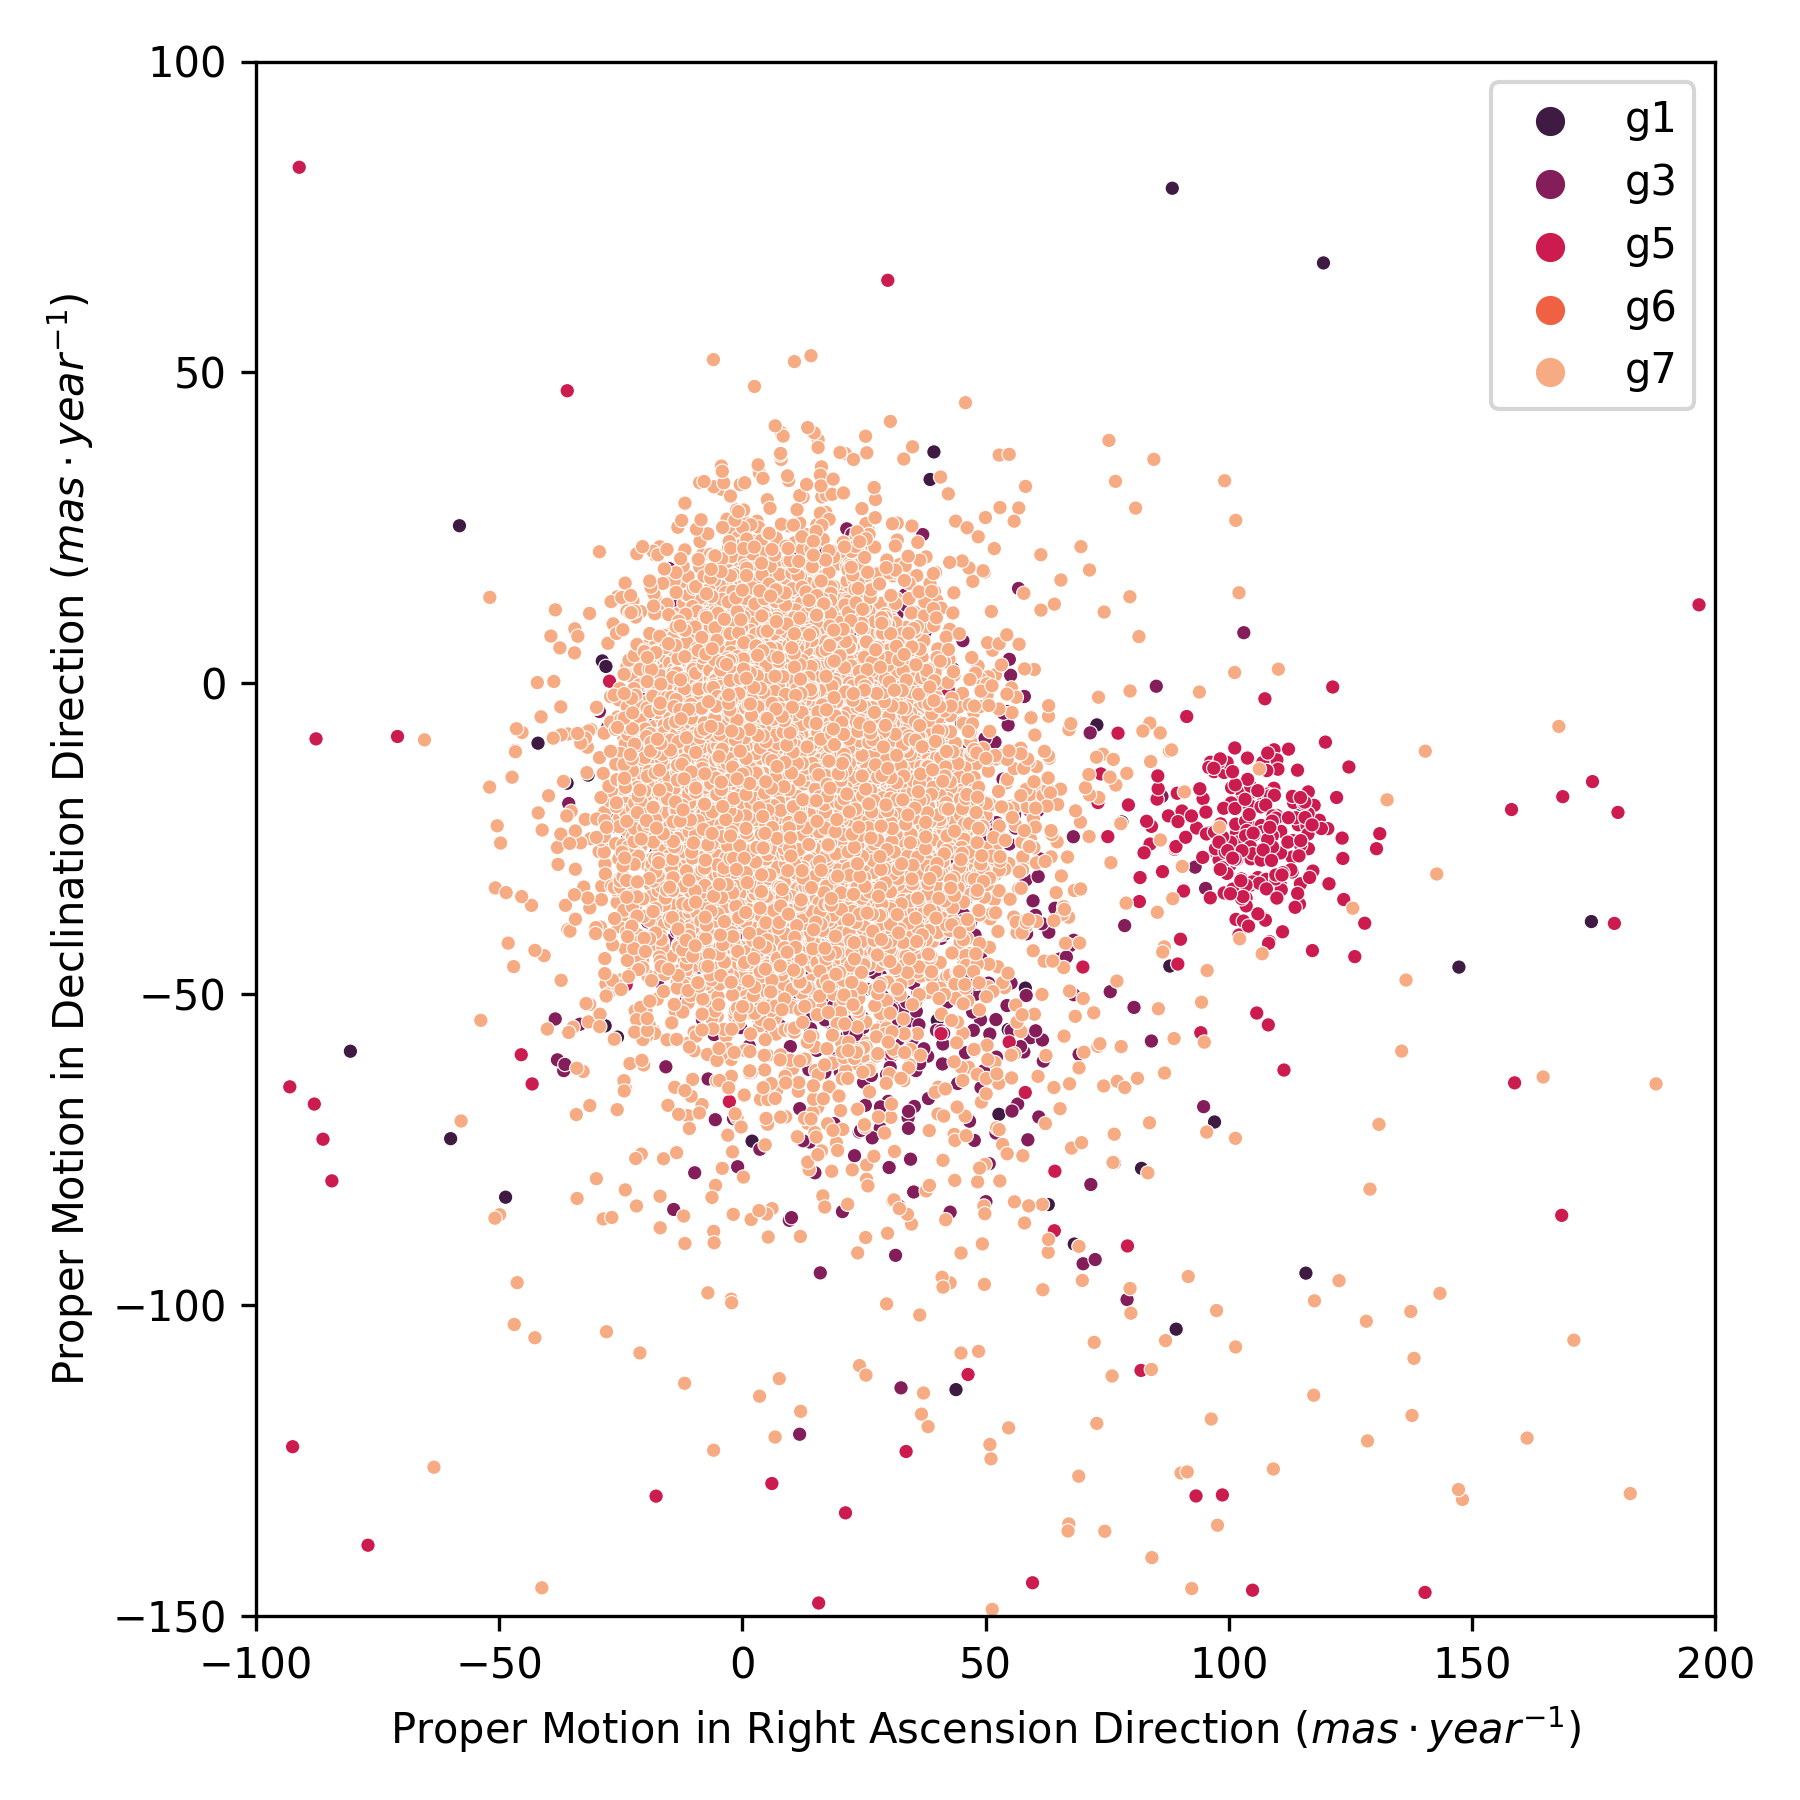
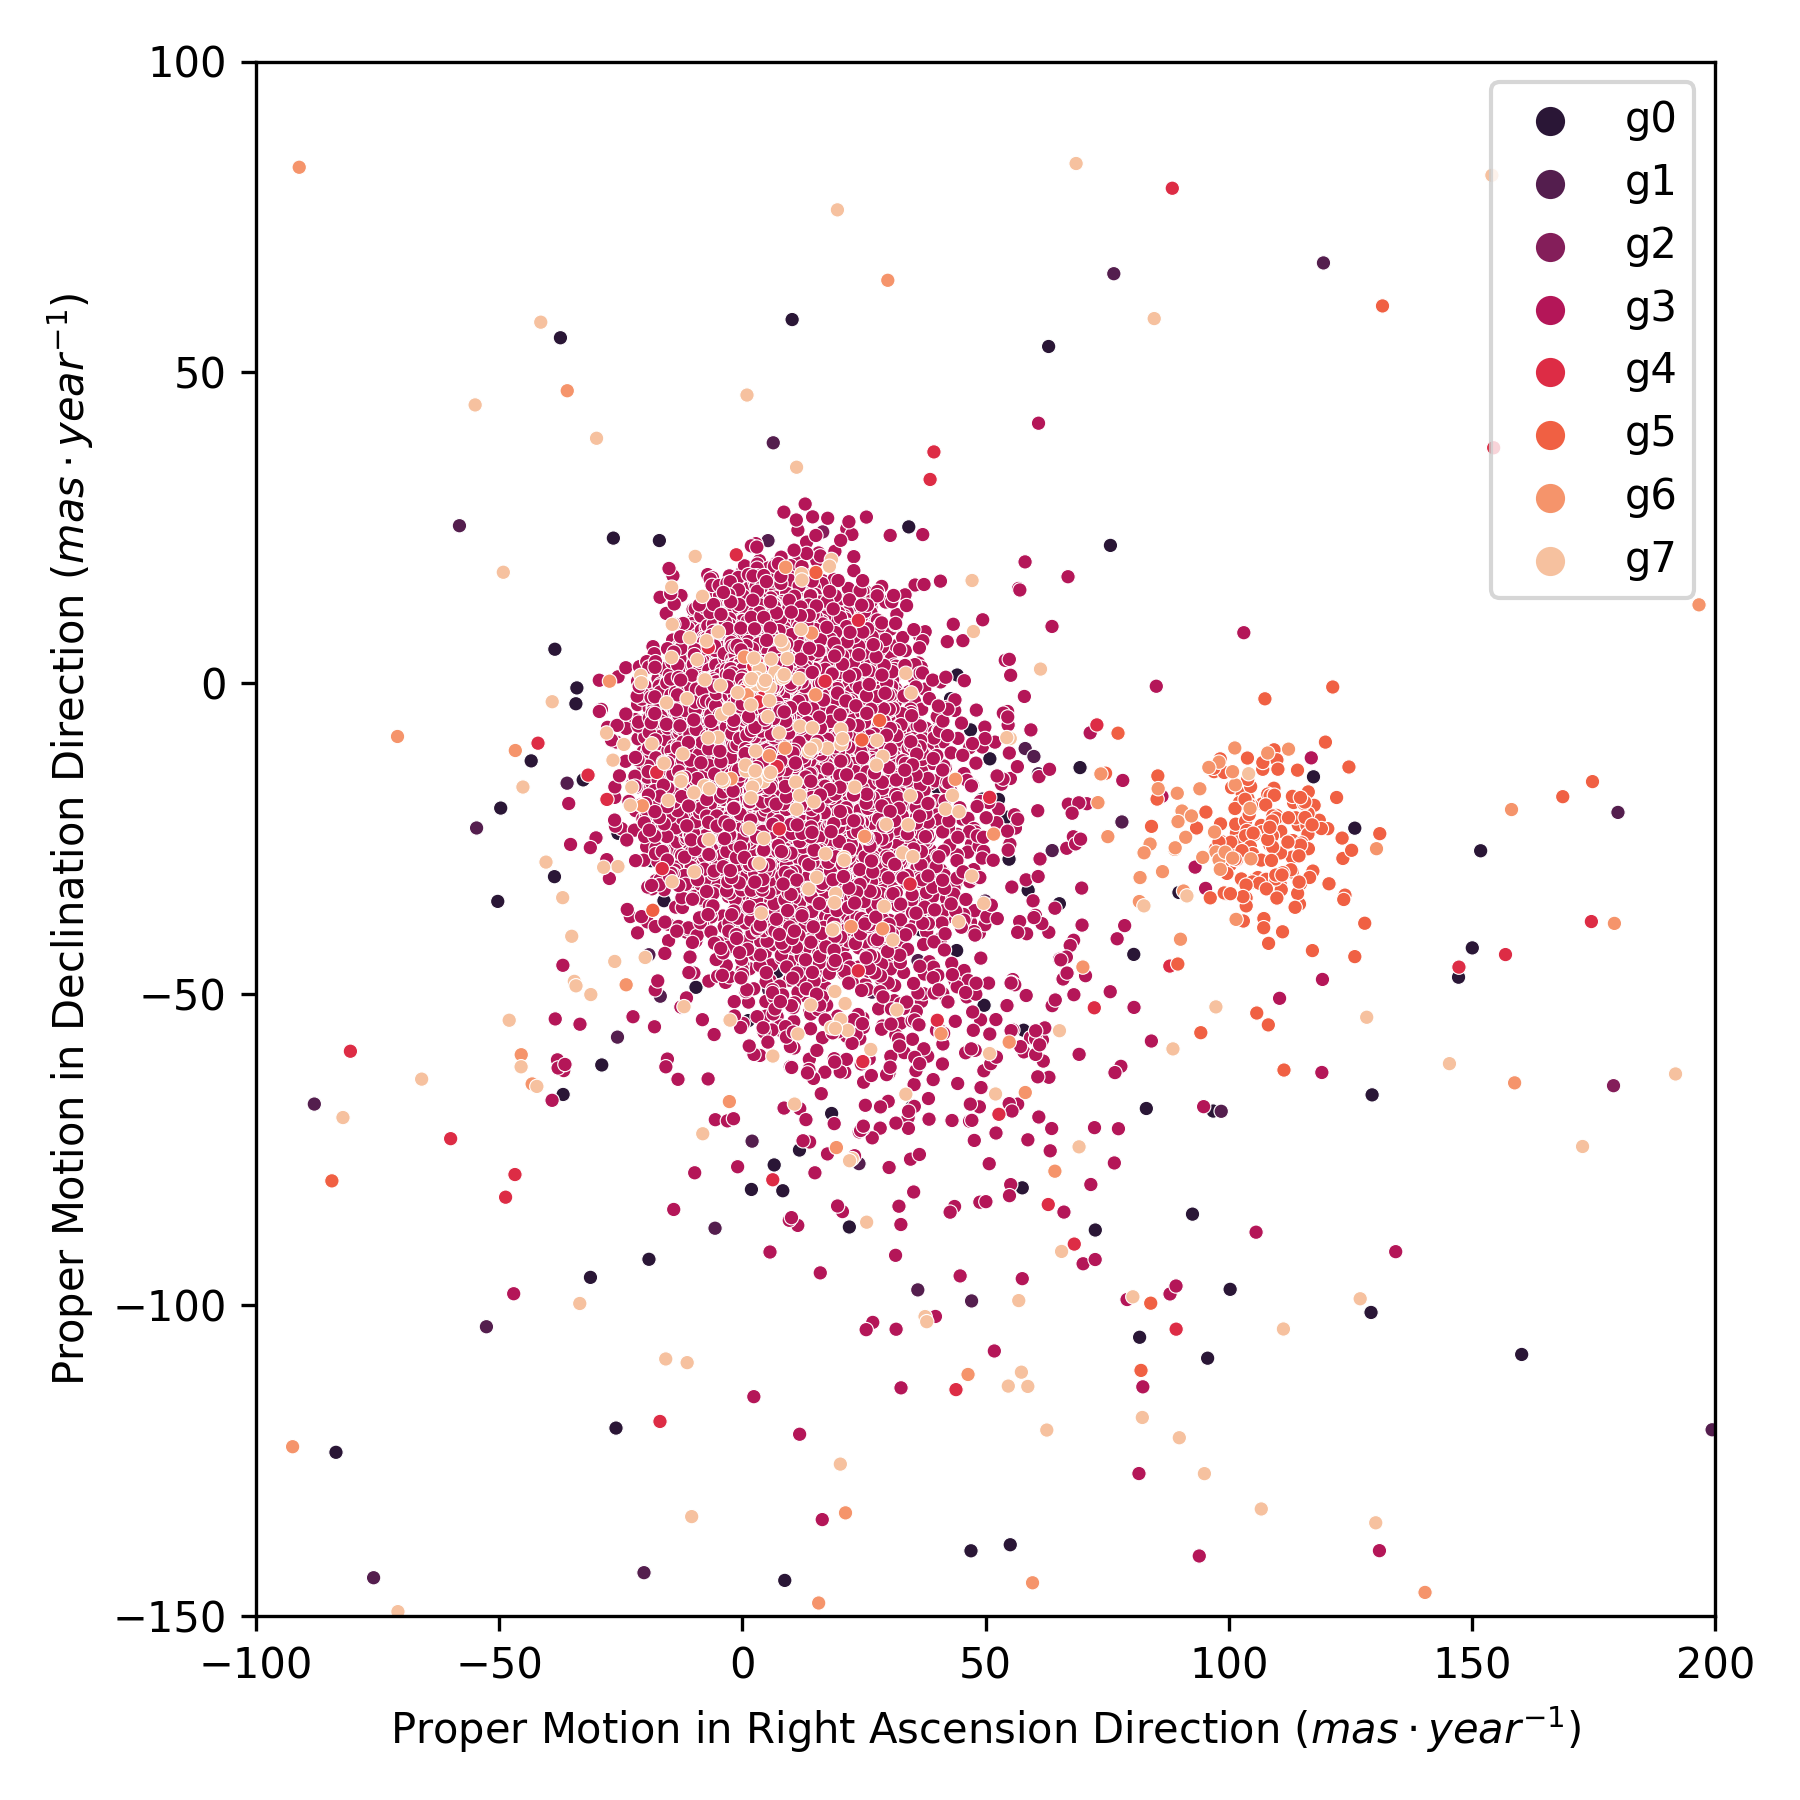
thesis: Improve Melotte 25 results

diff --git a/thesis/thesis.tex b/thesis/thesis.tex
@@ -1829,7 +1829,7 @@ with the DEC model. Table \ref{tab:results_ngc_2682} shows a results summary for
       \includegraphics[width=\textwidth]{../figures/melotte_25/kmeans_hr_diagram_melotte_25.png}
     \end{subfigure}
   \end{subfigure}
-  \caption{Melotte 25 KMeans characterization. Identified as cluster \emph{g3}.}
+  \caption{Melotte 25 KMeans characterization. Identified as cluster \emph{g4}.}
   \label{fig:result_melotte_25_kmeans}
   \centering
   \begin{subfigure}{0.9\textwidth}
@@ -1893,7 +1893,7 @@ with the DEC model. Table \ref{tab:results_melotte_25} shows a results summary f
       \textbf{Hyperparameter} & \textbf{Value} \\
       \hline
       Number of Clusters & 9 \\
-      Clustering Layer & $\left[ 50, 50, 80 \right]$ \\
+      Clustering Layer & $\left[ 50, 50, 40 \right]$ \\
       Kernel Initializer Seed & 11 \\
       Quantil Threshold & 0.1 \\
     \end{tabular}
@@ -1911,9 +1911,9 @@ with the DEC model. Table \ref{tab:results_melotte_25} shows a results summary f
       \hline
       \textbf{Simbad.u-strasbg.fr} & 104.92 $\pm$ 0.12 & -28.00 $\pm$ 0.09 & 21.052 $\pm$ 0.065 & - \\
       Clusterix+TOPCAT & 106.796 $\pm$ 6.229 & -24.870 $\pm$ 5.417 & 21.210 $\pm$ 1.115 & 109 \\
-      KMeans & 79.380 $\pm$ 3.7 & -45.314 $\pm$ 3.8 & 20.866 $\pm$ 0.31 & 376 \\
-      DEC & 76.463 $\pm$ 3.6 & -43.941 $\pm$ 3.6 & 20.489 $\pm$ 0.31 & 396 \\
-      \textbf{DEC (filtered)} & 81.795 $\pm$ 3.7 & -40.049 $\pm$ 3.1 & 19.888 $\pm$ 0.13 & 316 \\
+      KMeans & 79.936 $\pm$ 3.7 & -45.362 $\pm$ 3.8 & 20.901 $\pm$ 0.31 & 374 \\
+      DEC & 104.051 $\pm$ 3.2 & -33.424 $\pm$ 2.5 & 22.072 $\pm$ 0.13 & 219 \\
+      \textbf{DEC (filtered)} & 105.96 $\pm$ 3.5 & -30.00 $\pm$ 2.4 & 21.74 $\pm$ 0.07 & 175 \\
     \end{tabular}
     \caption{Melotte 25 results.}
     \label{tab:results_melotte_25}
